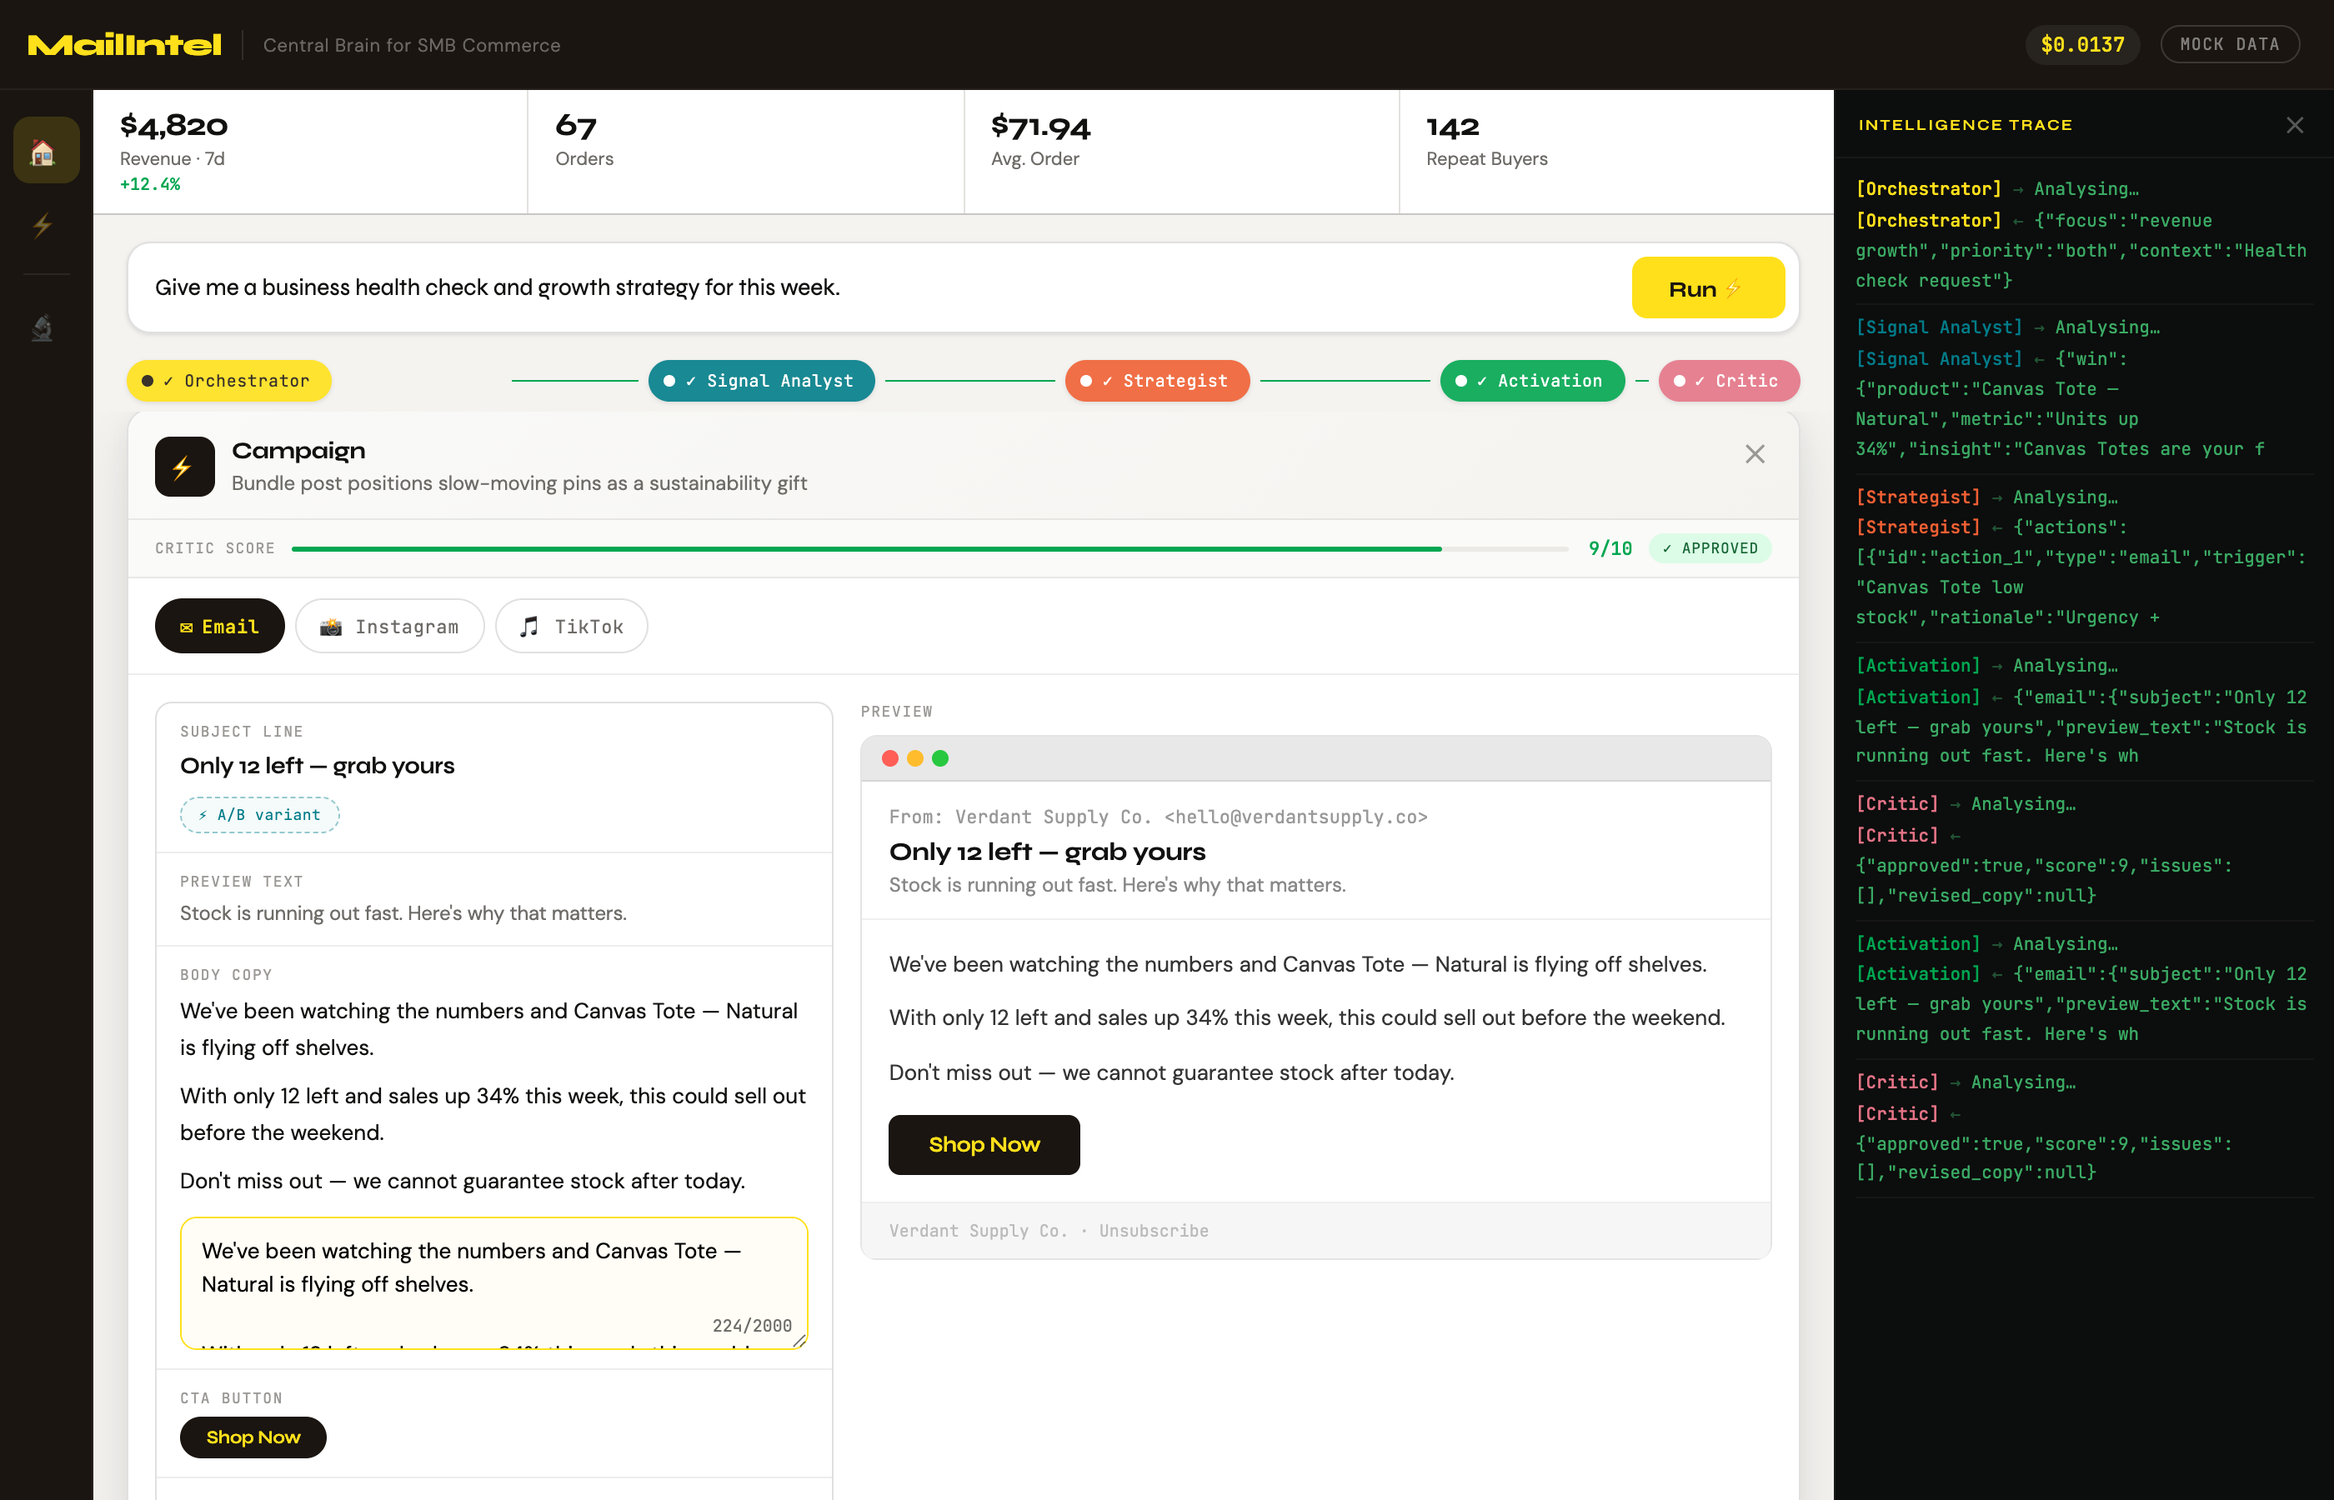
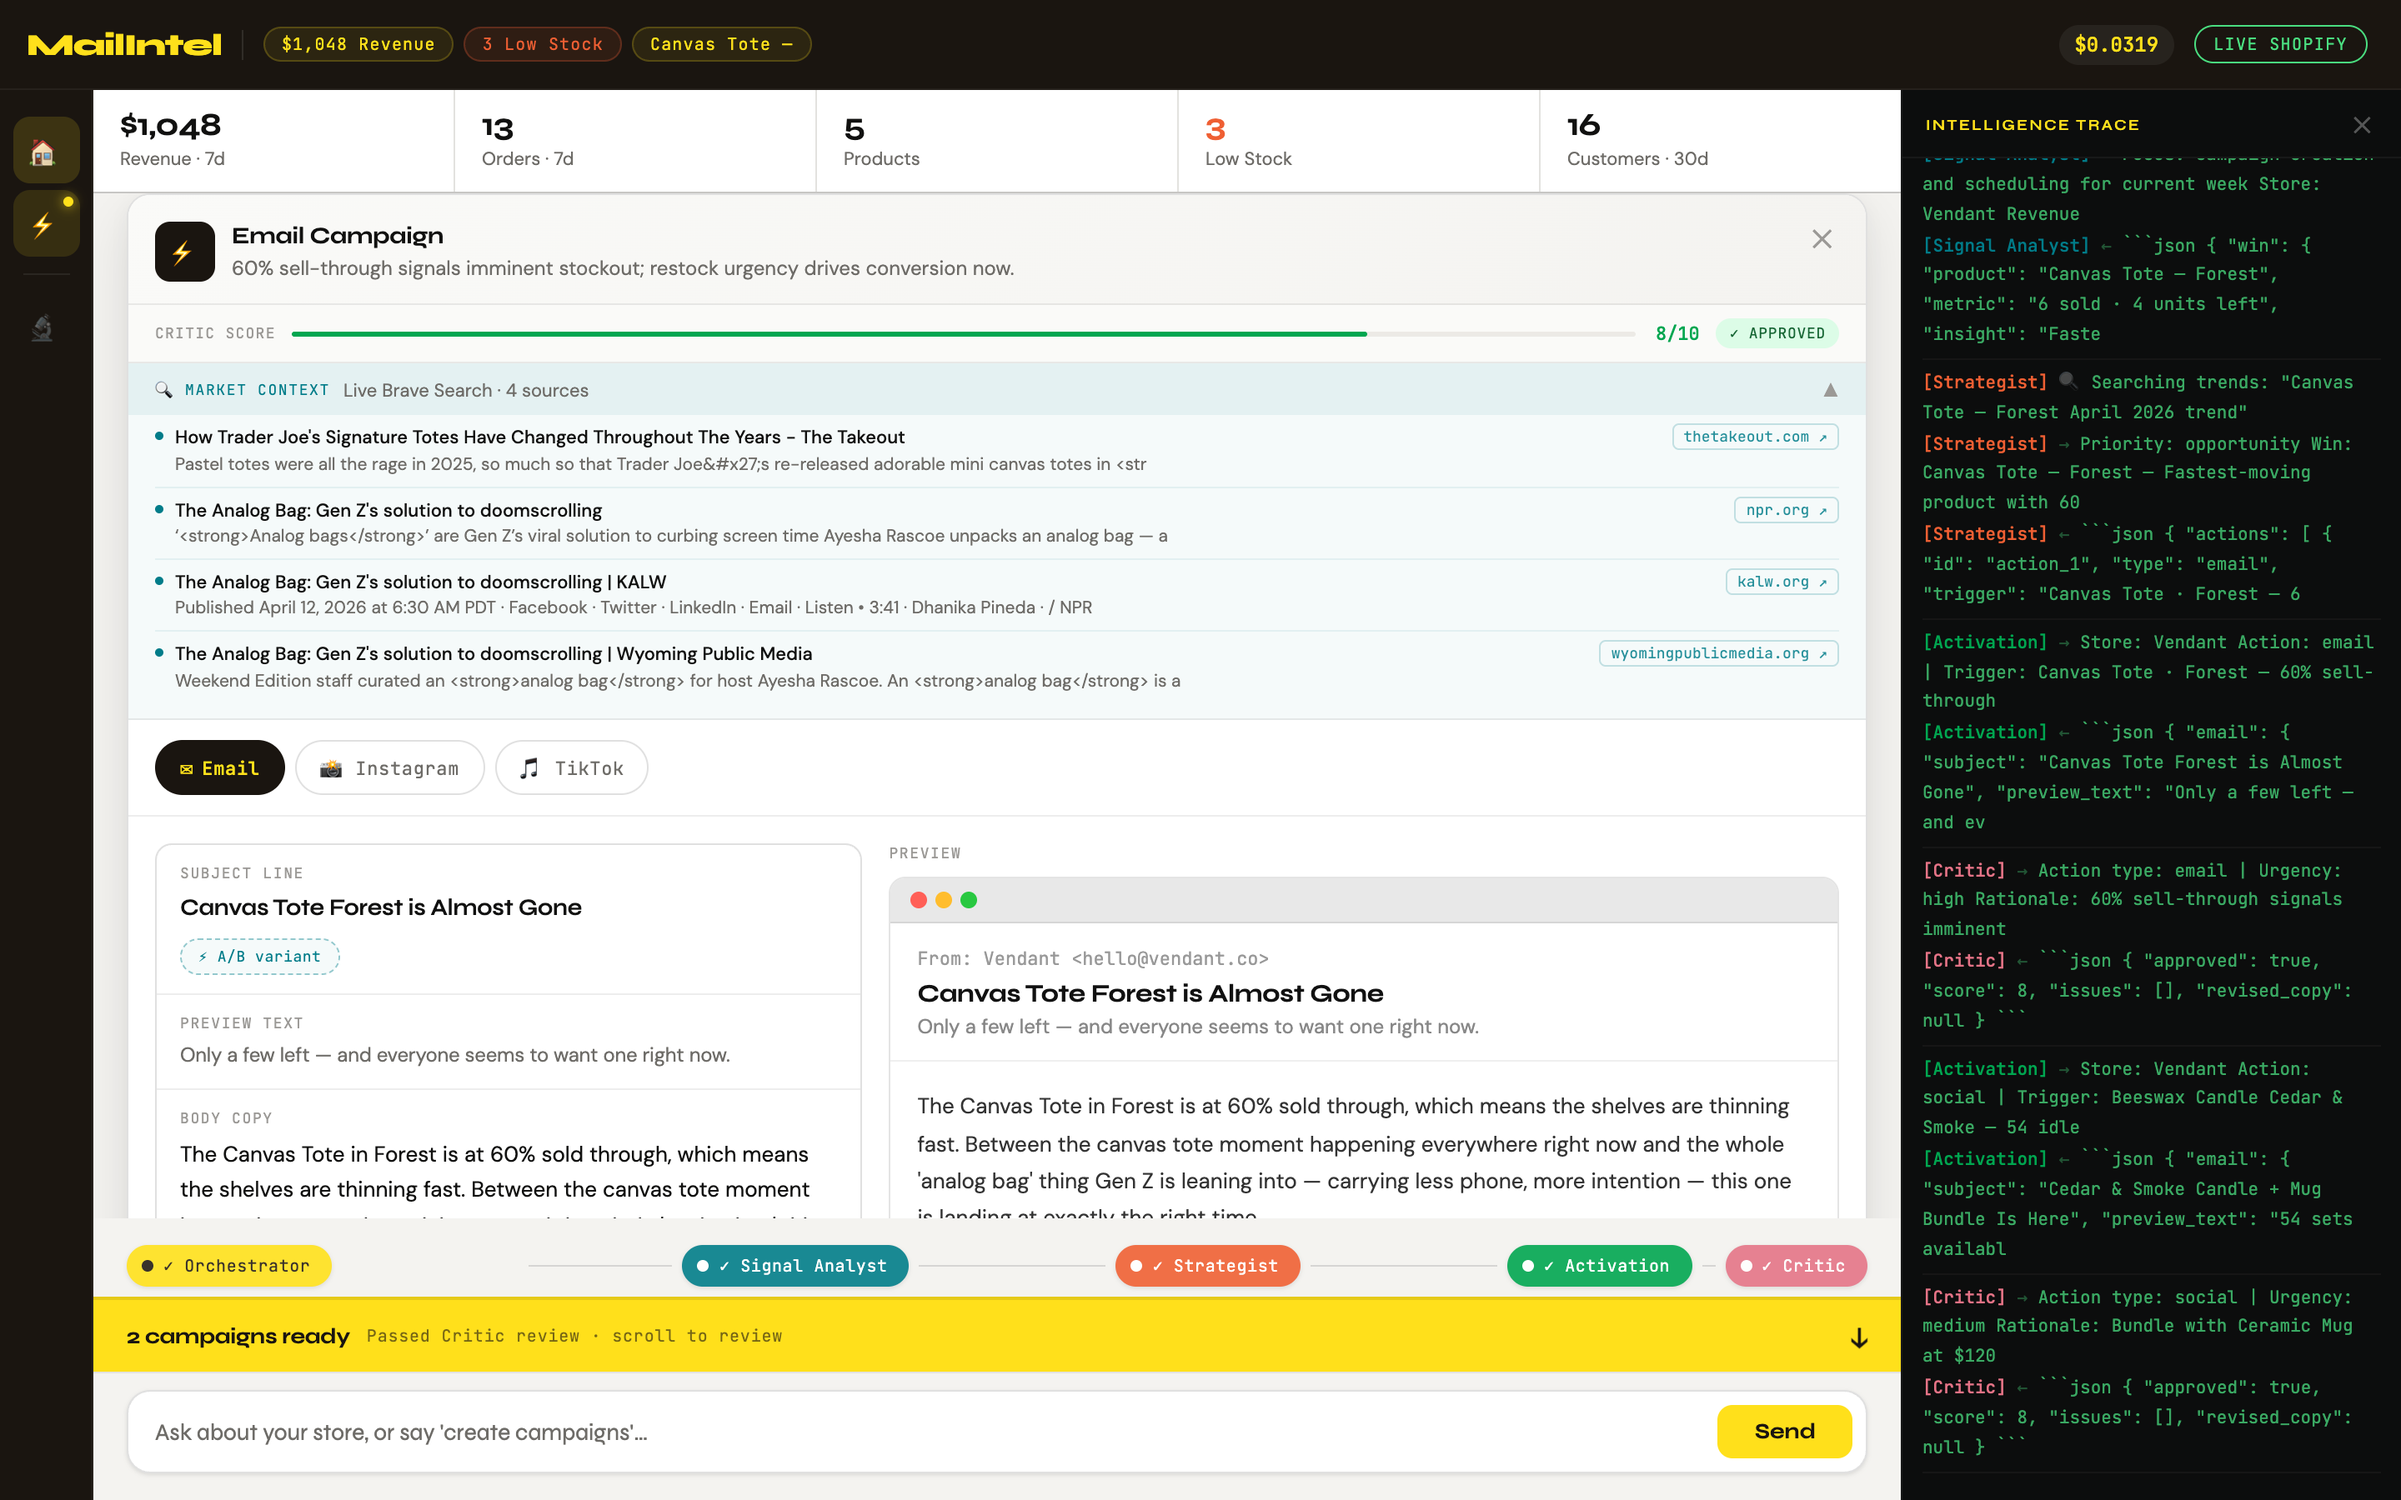
Update screenshots and README for latest UI
- Refresh all 11 screenshots: new Analyst card (WIN/OPP chips + metric), Strategist card (trend citations with clickable source links), structured chat responses (headline + stat chips), Market Context strip with source links
- README: update Strategist output description to note trends[] citations, Analyst/Strategist card caption to describe chip layout, chat question caption for structured response format
- README: add 3 capability bullets — trend citations, Strategist source links, structured chat responses

diff --git a/README.md b/README.md
@@ -29,7 +29,7 @@ Your store data is all there — revenue, orders, product velocity, low-stock al
 |-------|-------|------|----------------|
 | **Orchestrator** | Haiku 4.5 | Parses your query, sets focus + priority | Query → `{ focus, priority, context }` |
 | **Signal Analyst** | Haiku 4.5 | Reads store data, finds one Win + one Opportunity | Store data → `{ win, opportunity, confidence }` |
-| **Strategist** | Sonnet 4.6 | Cross-references signals with live web trends, proposes 2 Next Best Actions | Signals + Brave trends → `{ actions[2] }` |
+| **Strategist** | Sonnet 4.6 | Cross-references signals with live web trends, proposes 2 Next Best Actions | Signals + Brave trends → `{ actions[2] }` each with `trends[2]` citations |
 | **Activation** | Sonnet 4.6 | Writes Email + Instagram + TikTok copy in one batch, grounded in trend data | Action + trends → `{ email, instagram, tiktok }` |
 | **Critic** | Haiku 4.5 | Sequential 5-step reasoning → scores copy 1–10, rewrites if needed | Draft → `{ approved, score, revised_copy }` |
 
@@ -57,7 +57,7 @@ Every agent call streams into the Intelligence Trace panel in real time. You see
 
 ![Results Overview](docs/screenshots/04-results-overview.png)
 
-The Analyst surfaces what's winning and what's stalling. The Strategist explains why and proposes the two actions worth taking this week — enriched with live Brave Search trend data.
+The Analyst card shows WIN and OPP labels with the product name, metric chip (e.g. "4 sold · 8 units left"), and a one-sentence insight. The Strategist shows each action with a trigger chip, causal rationale, and 2 clickable trend citations linking to the live Brave Search sources.
 
 ---
 
@@ -105,7 +105,7 @@ Ask quick store questions without triggering the full agent pipeline. Haiku answ
 
 ![Chat Question](docs/screenshots/11-chat-question.png)
 
-When the question involves trends or market signals, Brave Search fires in parallel and the answer is grounded in live web data.
+When the question involves trends or market signals, Brave Search fires in parallel and the answer renders as a structured card: bold headline, numeric stat chips (green for positive, red for alerts), and a one-sentence so-what grounded in live web data.
 
 ---
 
@@ -114,7 +114,9 @@ When the question involves trends or market signals, Brave Search fires in paral
 - **Side-by-side email editor** — AI copy on the left, rendered preview on the right, live-synced as you type
 - **A/B variant generator** — alternative subject line, caption, or hook via a focused 120-token Claude call (~$0.001)
 - **Critic quality score** — every card shows a 1–10 score; copies that score below 8 are auto-revised before reaching you
-- **Market Context strip** — collapsible teal strip on every campaign card showing the Brave Search bullets that shaped the copy
+- **Market Context strip** — collapsible teal strip on every campaign card showing Brave Search bullets with clickable source domain links (e.g. `bloomberg.com ↗`)
+- **Trend citations on Strategist** — each proposed action shows 2 trend observations with clickable source links pulled from the same single Brave Search call
+- **Structured chat responses** — Haiku chat answers render as headline + numeric stat chips + context sentence instead of plain text
 - **Audience selector** — target All contacts · Repeat buyers · Lapsed 30d · New this week; contact count and estimated revenue update live
 - **Schedule toggle** — Now · Best time ✨ (AI-recommended per platform) · Custom datetime
 - **Full Intelligence Trace** — every agent call, every response, every token cost, in real time
